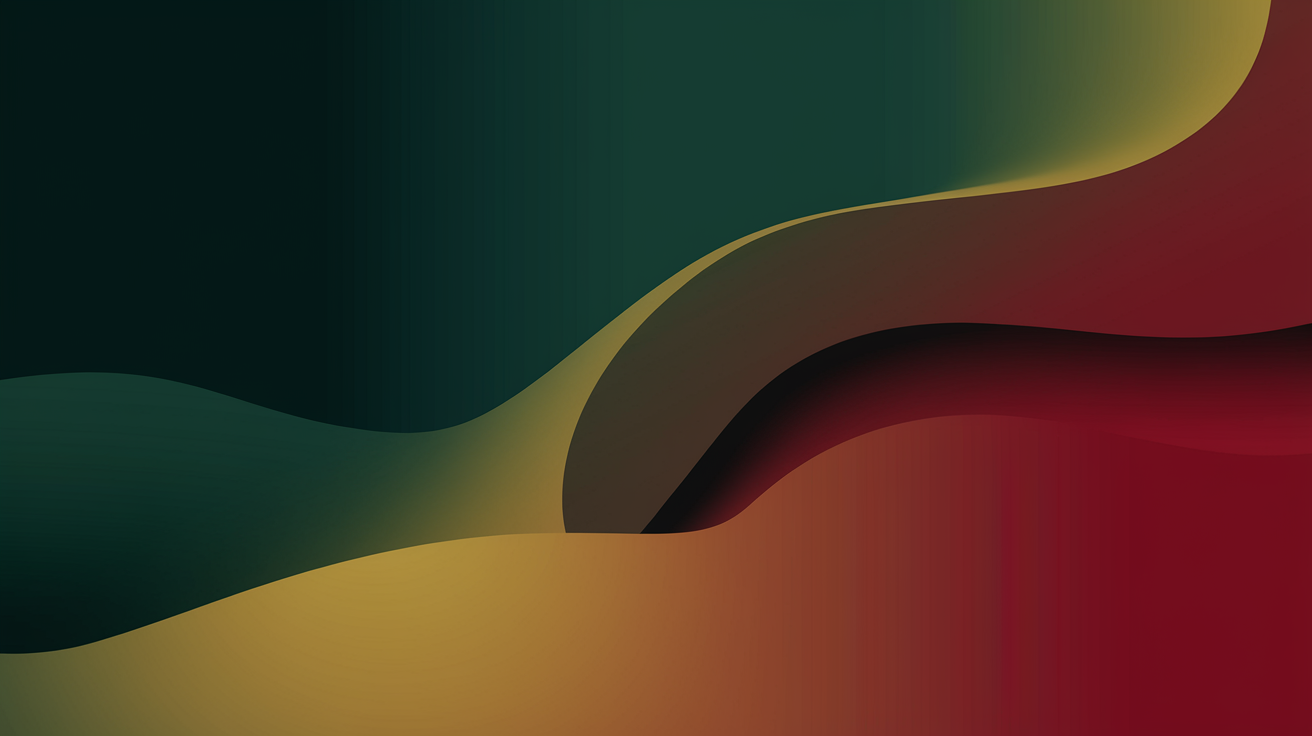
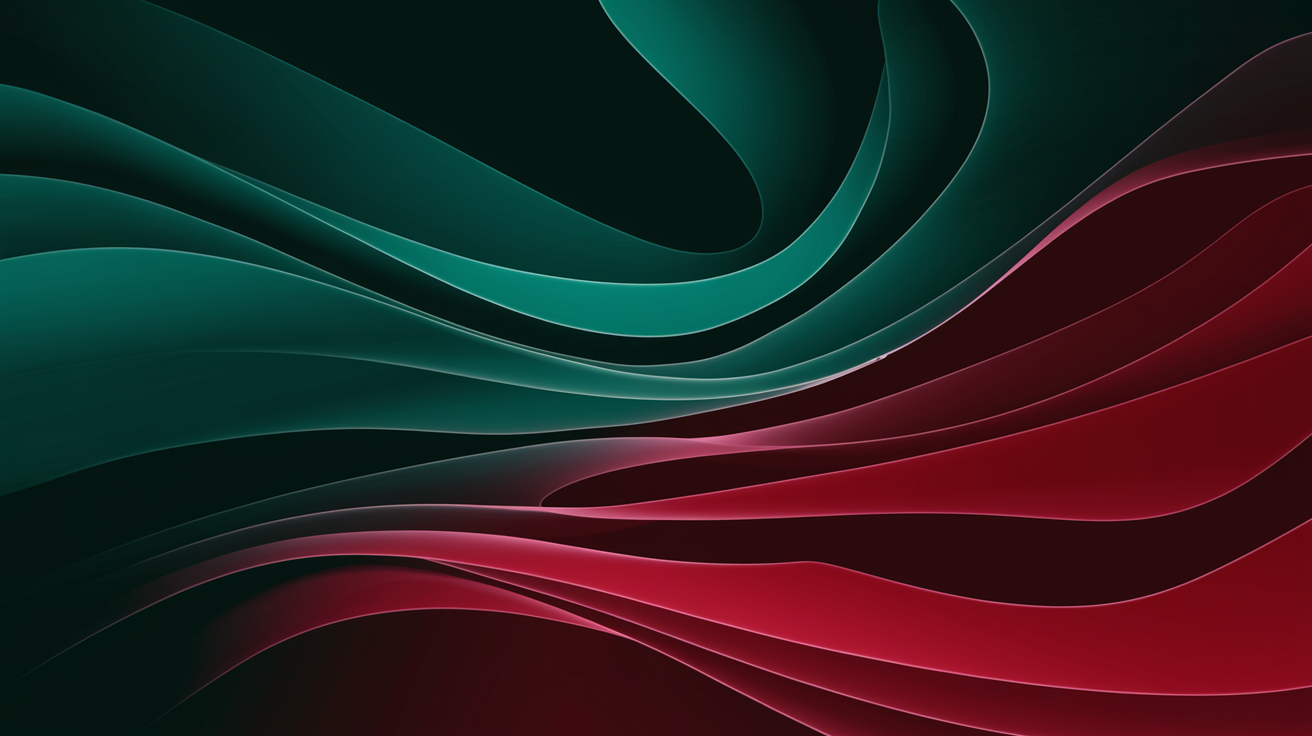
Add hero backgrounds for Portugal, Mexico, and Thailand
- Generate flag-themed abstract gradient backgrounds
- Portugal: green and deep red
- Mexico: green, white, and red
- Thailand: blue, white, and red

diff --git a/PROGRESS.md b/PROGRESS.md
@@ -183,10 +183,10 @@ Each country now has 8 provider subpages (24 new pages added):
 - [x] Dental and vision coverage options
 
 ### Technical/Polish
-- [ ] Generate hero backgrounds for Portugal, Mexico, Thailand
+- [x] Generate hero backgrounds for Portugal, Mexico, Thailand
 - [x] Sitemap.xml generation (auto via @astrojs/sitemap)
 - [x] robots.txt
-- [ ] Analytics integration (Plausible or similar)
+- [x] Analytics integration (GA4 via Netlify env var)
 - [ ] Performance audit (Lighthouse)
 - [ ] Deployment setup (Netlify/Vercel/Cloudflare Pages)
 - [ ] Structured data / JSON-LD for SEO